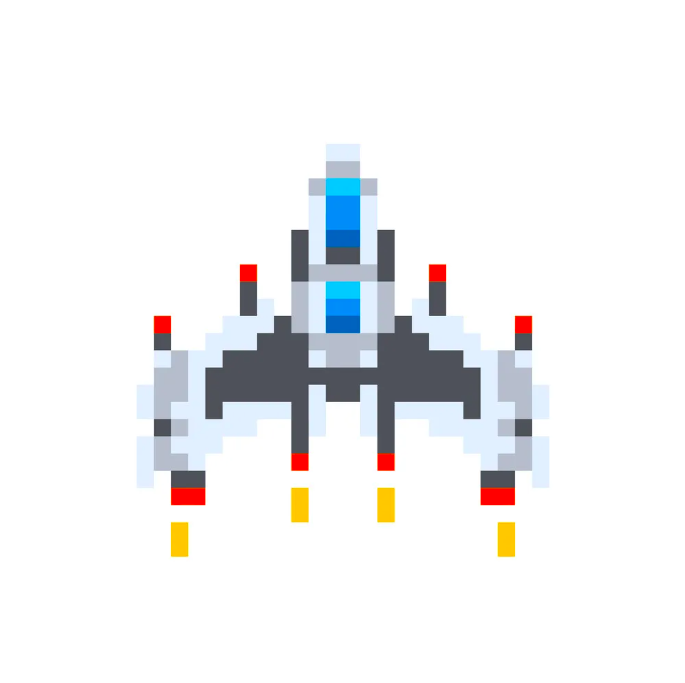
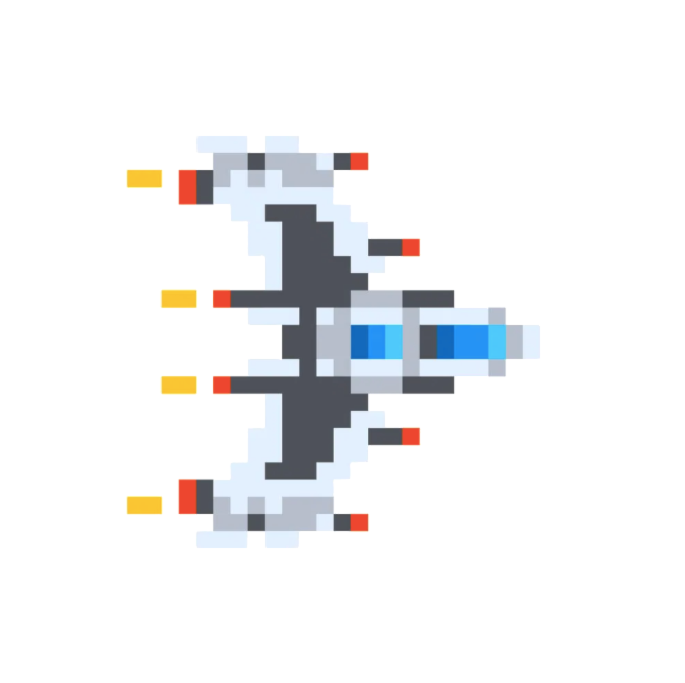
Graphisme + choix nom

Changed region(s): [[0.1839, 0.1845, 0.8277, 0.8302]]

diff --git a/client/js/sketch.js b/client/js/sketch.js
@@ -39,24 +39,21 @@ var Entity = function(id, name, x, y, speed, dx, dy, angle){
 
         if (this.name === "Missile"){
 
-            rectMode(CENTER);
             rotate(this.angle);
-            rect(0, 0, 5, 10);
+            imageMode(CENTER);
+            image(imgMissile, 0, 0, 40, 40);
             this.x += this.dx;
             this.y += this.dy;
         }
         else{
 
-            textSize(13);
-            text(this.id, -70, 80);
+            textSize(18);
+            textAlign(CENTER);
+            text(this.name, 0, -80);
             rotate(this.angle);
 
-            beginShape();
-            vertex(0, -45);
-            vertex(-30, 45);
-            vertex(0, 37);
-            vertex(30, 45);
-            endShape(CLOSE);
+            imageMode(CENTER);
+            image(imgPlayer, 0, 0, 200, 200);
         }
         pop();
 
@@ -70,6 +67,7 @@ var Entity = function(id, name, x, y, speed, dx, dy, angle){
     this.getinfo = function(){
         return{
             id : this.id,
+            name : this.name,
             x : this.x,
             y : this.y,
             speed : this.speed,
@@ -89,6 +87,29 @@ function seePlayers(players){
     }
     console.log("-----------------------------------------------------------");
 }
+
+function chooseName(){
+    fill(255);
+
+    textSize(25);
+    text("Hey pilot, what's your name ?", windowWidth/2 - 100, windowHeight/2 - 20);
+
+    let inp = createInput('');
+    inp.position(windowWidth/2, windowHeight/2);
+    inp.size(100);
+    inp.input(myInputEvent);
+
+    button = createButton("Let's kick some asses !");
+    button.position(windowWidth/2 - 18, windowHeight/2 +30);
+    button.mousePressed(function(){
+        myName = inp.value();
+        console.log("My Name : " + myName.toString());
+        socket.emit("ImReady", {name : myName.toString()});
+        inp.remove();
+        button.remove();
+    });
+}
+
 
 /* ===============================================================================================
 Procédure :
@@ -139,11 +160,15 @@ function destroyProj(i){
 --------------------------------------------------------------------------------------------------*/
 var socket;
 var myId;
+let myName = "";
+
 var player;
 var players = [];
 var projectiles = [];
 
+let imgBg;
 let imgPlayer;
+let imgMissile;
 
 socket = io();
 
@@ -155,18 +180,23 @@ Output -
 
 function preload() {
     imgPlayer = loadImage("./assets/spaceship.png");
+    imgMissile = loadImage("./assets/missile.png");
+    imgBg = loadImage("./assets/spacebg.jpeg");
+
 }
 function setup() {
     // write code
     createCanvas(windowWidth, windowHeight);
+    background(imgBg);
 
-    socket.emit("ImReady", {name : "name"});
+    chooseName();
+
     socket.on("YourId", function(data){
         myId = data.id;
         //console.log(myId);
     })
     socket.on("CurrentElements", function(data){
-        player = new Entity(data.id, "Name", data.x, data.y, data.speed, data.dx, data.dy, data.angle);
+        player = new Entity(data.id, data.name, data.x, data.y, data.speed, data.dx, data.dy, data.angle);
         players.push(player);
     
         console.log("Other players created");
@@ -174,7 +204,8 @@ function setup() {
 
     socket.on("NewPlayer", function(data){
   
-        player = new Entity(data.id, "Name", data.x, data.y, data.speed, data.dx, data.dy, data.angle);
+        player = new Entity(data.id, data.name, data.x, data.y, data.speed, data.dx, data.dy, data.angle);
+        console.log("Name2 : " + player.name);
         if (player.id === myId){
             players.unshift(player);
         }
@@ -208,7 +239,7 @@ function setup() {
         })
     });
     socket.on("NewMissile", function(data){
-        proj = new Entity(socket.id, "Missile", data.x, data.y, 12, Math.cos(data.angle - Math.PI/2)* 12, Math.sin(data.angle - Math.PI/2)* 12, data.angle);
+        proj = new Entity(socket.id, "Missile", data.x, data.y, data.speed, data.dx, data.dy, data.angle);
         projectiles.push(proj);
     })
 
@@ -237,54 +268,60 @@ Output -
 
 function draw() {
 
+
     // Setup
     frameRate(50);
-    background(0,204,204);
 
-    // Player Control
-    if(players[0]){
+    // Choose name window
+    if (myName === ""){
+    }
+
+    else{
+        background(imgBg);
+
+        // Player Control
+        if(players[0]){
+            
+            players[0].angle = angle(pmouseX-windowWidth/2, pmouseY-windowHeight/2);
+
+            players[0].dx = speedX(players[0].speed);
+            players[0].dy = speedY(players[0].speed);
+
+            players[0].x += players[0].dx;
+            players[0].y += players[0].dy;
+
+            translate(windowWidth/2 - players[0].x ,windowHeight/2 - players[0].y);
+
+        }
+
+        // Background
+        fill(90, 90, 90);
+        rect(-300, 150, 800, 600);
+        rect(600, 150, 800, 600);
+        rect(-1200, 150, 800, 600);
+        rect(-300, 850, 800, 600);
+        rect(-300, -550, 800, 600);
+
         
-        players[0].angle = angle(pmouseX-windowWidth/2, pmouseY-windowHeight/2) + (Math.PI / 2);
+        // Entity Drawing
+        for(var i in projectiles){
+            projectiles[i].draw();
+        }
 
-        players[0].dx = speedX(players[0].speed);
-        players[0].dy = speedY(players[0].speed);
+        for(var i in players){
+            players[i].draw();
+        }
 
-        players[0].x += players[0].dx;
-        players[0].y += players[0].dy;
+        // HUD
+        fill(255,255,255);
+        if (players[0]){
+            textSize(30);
+            text("Your score : ", (-windowWidth/2) + 20 + players[0].x, (windowHeight/2) - 50 + players[0].y );
 
-        translate(windowWidth/2 - players[0].x ,windowHeight/2 - players[0].y);
-
+            textSize(25);
+            text("Press SHIFT to shoot ! ", (-windowWidth/2) + 20 + players[0].x, (-windowHeight/2) + 35 + players[0].y );
+        }
     }
-
-    // Background
-    fill(51);
-    rect(-300, 150, 800, 600);
-    rect(600, 150, 800, 600);
-    rect(-1200, 150, 800, 600);
-    rect(-300, 850, 800, 600);
-    rect(-300, -550, 800, 600);
-
-    
-    // Entity Drawing
-    for(var i in projectiles){
-        projectiles[i].draw();
-    }
-
-    for(var i in players){
-        players[i].draw();
-    }
-
-    // HUD
-    fill(255,255,255);
-    if (players[0]){
-        textSize(30);
-        text("Your score : ", (-windowWidth/2) + 20 + players[0].x, (windowHeight/2) - 50 + players[0].y );
-
-        textSize(25);
-        text("Press SHIFT to shoot ! ", (-windowWidth/2) + 20 + players[0].x, (-windowHeight/2) + 35 + players[0].y );
-    }
-    tint(255, 126);
-    image(imgPlayer, 0, 0);
 }
 
 function keyPressed(){

diff --git a/server/server.js b/server/server.js
@@ -73,6 +73,7 @@ var Entity = function(id, name, x, y, speed, dx, dy, angle){
     this.getinfo = function(){
         return{
             id : this.id,
+            name : this.name,
             x : this.x,
             y : this.y,
             speed : this.speed,
@@ -159,7 +160,7 @@ io.on('connection', function(socket){ // Callback si connexion d'un nouveau clie
         }
 
         // Création d'un nouveau joueur
-        player = new Entity(socket.id, data.name, 0, 0, 6, 0, 0, 0);
+        player = new Entity(socket.id, data.name, 0, 0, 8, 0, 0, 0);
         players.push(player);
 
         // Emission de l'ID au nouveau client
@@ -190,8 +191,9 @@ io.on('connection', function(socket){ // Callback si connexion d'un nouveau clie
             projnames += 1;
 
             var missilename = projnames.toString();
+            var speedMissile = 17;
 
-            proj = new Entity(socket.id, missilename, data.x, data.y, 12, Math.cos(data.angle)* 12, Math.sin(data.angle)* 12, data.angle);
+            proj = new Entity(socket.id, missilename, data.x, data.y, speedMissile, Math.cos(data.angle)* speedMissile, Math.sin(data.angle)* speedMissile, data.angle);
             projectiles.push(proj);
 
             io.emit("NewMissile",proj.getinfo());
